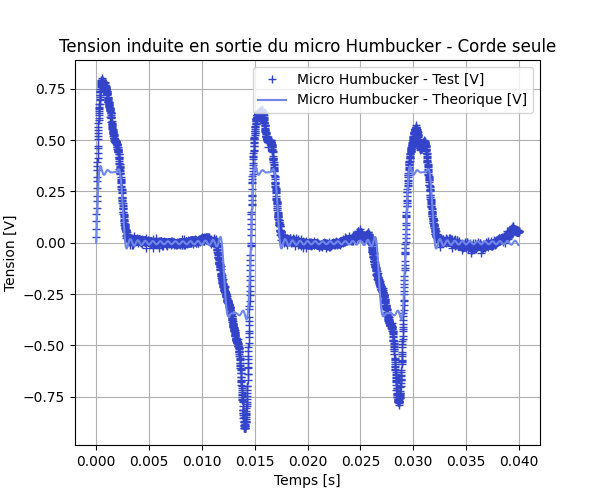
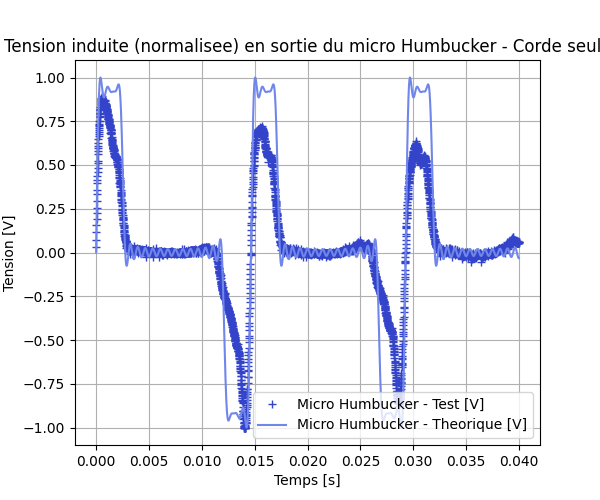
courbe normalisee

diff --git a/Python/Code/Modele_fem.py b/Python/Code/Modele_fem.py
@@ -30,13 +30,12 @@ dBdy = 0.05             #A verifier ???
 d = 6.3 * 10**(-5)
 S = 7 * 10**(-4)
 #* Parametre Micro Singlecoil
-RCC_s = 8.92 * 10**3      #A verifier ???
+RCC_s = 5.3 * 10**3
 lmoy_s = 0.147
 N_s = int(RCC_s * np.pi * d**2 / (4 * rho * lmoy_s))
-N_s = 8000
 #* Parametre Micro Humbucker
 RCC_h = 4.52 * 10**3
-lmoy_h = lmoy_s            #A verifier ???
+lmoy_h = lmoy_s/2            #A verifier ???
 N_h = int(RCC_h * np.pi * d**2 / (8 * rho * lmoy_h))
 #* Parametre Champ parasite
 Nbob = 95
@@ -213,6 +212,11 @@ def save_plot(fig_path: str, *plot_calls, title=None, xlabel=None, ylabel=None, 
     plt.savefig(fig_path)
     plt.close()
 
+def normalize_signal(signal: np.ndarray):
+    max_val = np.max(np.abs(signal))
+    if max_val == 0:
+        return signal
+    return signal / max_val
 
 def compute_and_normalize_fft(signal: np.ndarray, Ne_fft: int):
     fft = np.fft.fft(signal)
@@ -401,9 +405,9 @@ if __name__ == "__main__":
     #* --- Micro Humbucker (corde) ---*#
     print("Micro Humbucker (corde)...")
     save_plot("Python/Exports/01-Humbucker_corde.png",
-            (temps, Test_h, {'marker': '+', 'linestyle': 'None', 'color': Color_h_test, 'label': "Micro Humbucker - Test [V]"}),
-            (temps, fem_h, {'color': Color_h, 'label': "Micro Humbucker - Theorique [V]"}),
-            title="Tension induite en sortie du micro Humbucker - Corde seule",
+            (temps, normalize_signal(Test_h), {'marker': '+', 'linestyle': 'None', 'color': Color_h_test, 'label': "Micro Humbucker - Test [V]"}),
+            (temps, normalize_signal(fem_h), {'color': Color_h, 'label': "Micro Humbucker - Theorique [V]"}),
+            title="Tension induite (normalisee) en sortie du micro Humbucker - Corde seule",
             xlabel="Temps [s]", ylabel="Tension [V]")
     print("Courbes sauvegardees sous Python/Exports/01-Humbucker_corde.png.")
 
@@ -419,30 +423,29 @@ if __name__ == "__main__":
     #* --- Humbucker (total) ---*#
     print("Micro Humbucker (total)...")
     save_plot("Python/Exports/03-Humbucker_total.png",
-            (temps, Test_h_tot, {'marker': '+', 'linestyle': 'None', 'color': Color_h_test, 'label': "Micro Humbucker - Test [V]"}),
-            (temps, fem_h_tot, {'color': Color_h, 'label': "Micro Humbucker - Theorique [V]"}),
-            title="Tension induite en sortie du micro Humbucker - Total",
+            (temps, normalize_signal(Test_h_tot), {'marker': '+', 'linestyle': 'None', 'color': Color_h_test, 'label': "Micro Humbucker - Test [V]"}),
+            (temps, normalize_signal(fem_h_tot), {'color': Color_h, 'label': "Micro Humbucker - Theorique [V]"}),
+            title="Tension induite (normalisee) en sortie du micro Humbucker - Total",
             xlabel="Temps [s]", ylabel="Tension [V]")
     print("Courbes sauvegardees sous Python/Exports/03-Humbucker_total.png.")
 
     #* --- Total ---*#
     print("Tous micros total...")
     save_plot("Python/Exports/99-total.png",
-            (temps, Test_h_tot, {'marker': '+', 'linestyle': 'None', 'color': Color_h_test, 'label': "Micro Humbucker - Test [V]"}),
-            (temps, fem_h_tot, {'color': Color_h, 'label': "Micro Humbucker - Theorique [V]"}),
-            (temps, fem_s_tot, {'color': Color_s, 'label': "Micro Singlecoil - Theorique [V]"}),
-            title="Tension induite en sortie des micros",
+            (temps, normalize_signal(Test_h_tot), {'marker': '+', 'linestyle': 'None', 'color': Color_h_test, 'label': "Micro Humbucker - Test [V]"}),
+            (temps, normalize_signal(fem_h_tot), {'color': Color_h, 'label': "Micro Humbucker - Theorique [V]"}),
+            (temps, normalize_signal(fem_s_tot), {'color': Color_s, 'label': "Micro Singlecoil - Theorique [V]"}),
+            title="Tension induite (normalisee) en sortie des micros",
             xlabel="Temps [s]", ylabel="Tension [V]")
     print("Courbes sauvegardees sous Python/Exports/99-total.png.")
 
     #* --- Comparaison des micros Theorique (corde seule) ---*#
     print("Comparaison des micros  Theorique (corde seule)...")
     plt.figure()
-    l3, = plt.plot(temps, fem_h, color=Color_h, label="Micro Humbucker - Theorique [V]")
-    l2, = plt.plot(temps, fem_s, color=Color_s, label="Micro Singlecoil - Theorique [V]")
+    l3, = plt.plot(temps, normalize_signal(fem_h), color=Color_h, label="Micro Humbucker - Theorique [V]")
+    l2, = plt.plot(temps, normalize_signal(fem_s), color=Color_s, label="Micro Singlecoil - Theorique [V]")
     plt.ylabel("Tension induite [V]")
-    plt.ticklabel_format(axis='y', style='sci', scilimits=(-3, -3))
-    plt.title("Tension induite en sortie des micros - Corde seule")
+    plt.title("Tension induite (normalisee) en sortie des micros - Corde seule")
     plt.legend(handles=[l3, l2], loc='lower left')
     plt.grid()
     plt.savefig("Python/Exports/Th-Corde.png")
@@ -452,9 +455,9 @@ if __name__ == "__main__":
     #* --- Comparaison des micros Theorique (total) ---*#
     print("Comparaison des micros  Theorique (total)...")
     save_plot("Python/Exports/Th-Total.png",
-            (temps, fem_h_tot, {'color': Color_h, 'label': "Micro Humbucker - Theorique [V]"}),
-            (temps, fem_s_tot, {'color': Color_s, 'label': "Micro Singlecoil - Theorique [V]"}),
-            title="Tension induite en sortie des micros",
+            (temps, normalize_signal(fem_h_tot), {'color': Color_h, 'label': "Micro Humbucker - Theorique [V]"}),
+            (temps, normalize_signal(fem_s_tot), {'color': Color_s, 'label': "Micro Singlecoil - Theorique [V]"}),
+            title="Tension induite (normalisee) en sortie des micros",
             xlabel="Temps [s]", ylabel="Tension [V]")
     print("Courbes sauvegardees sous Python/Exports/Th-Total.png.")
 
